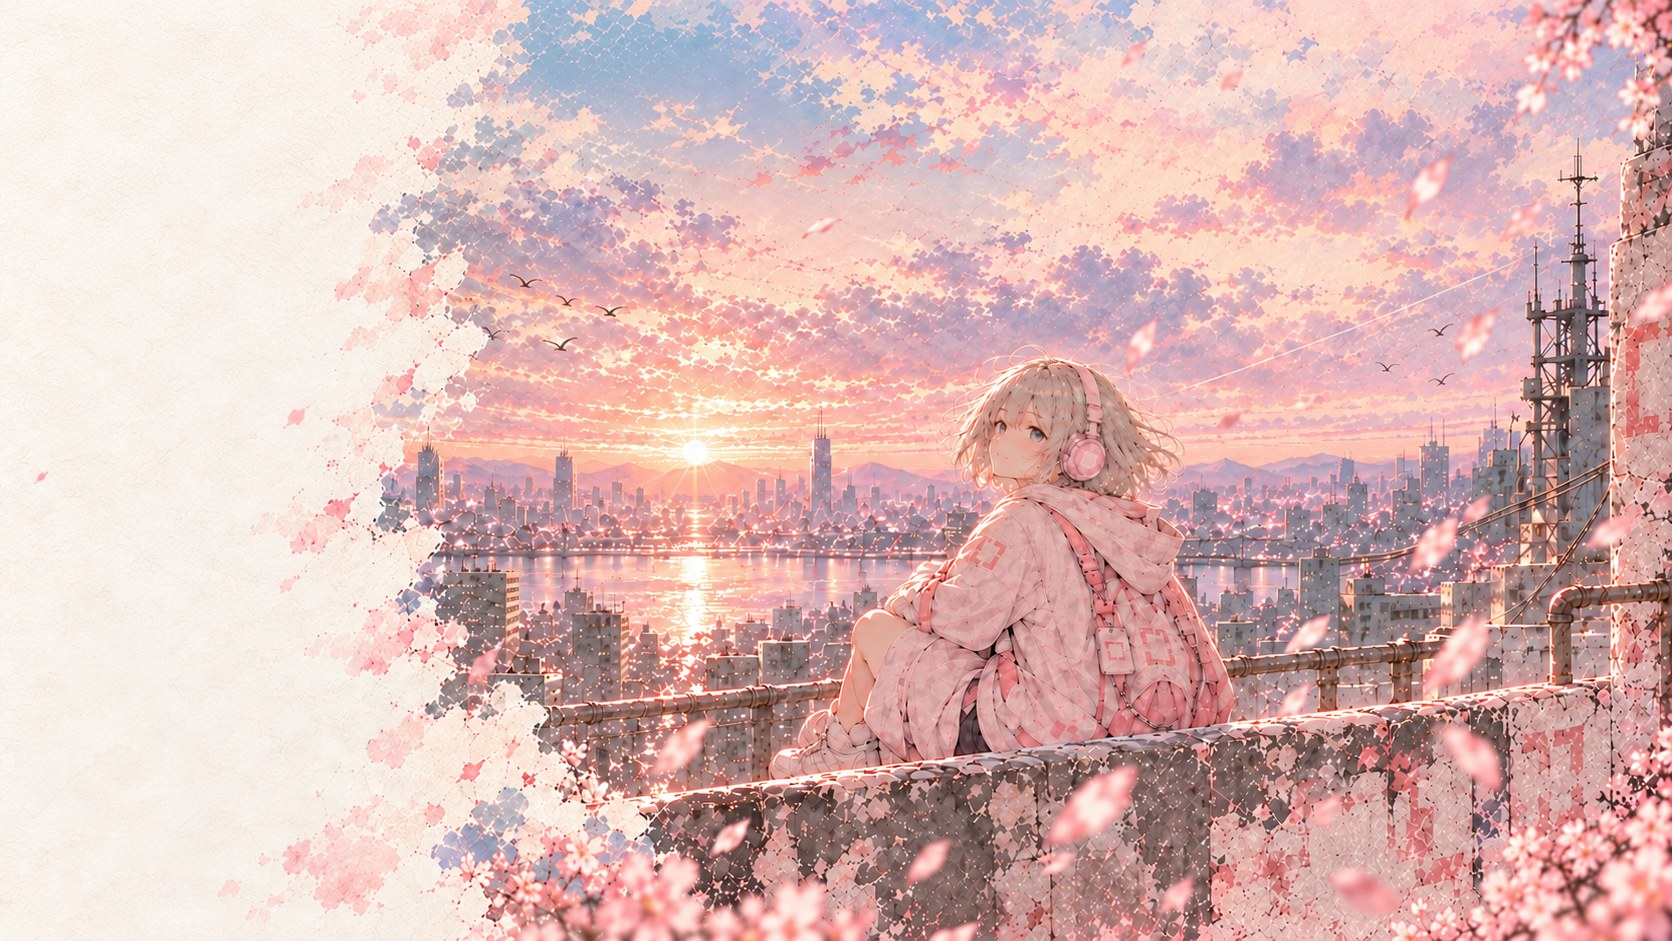
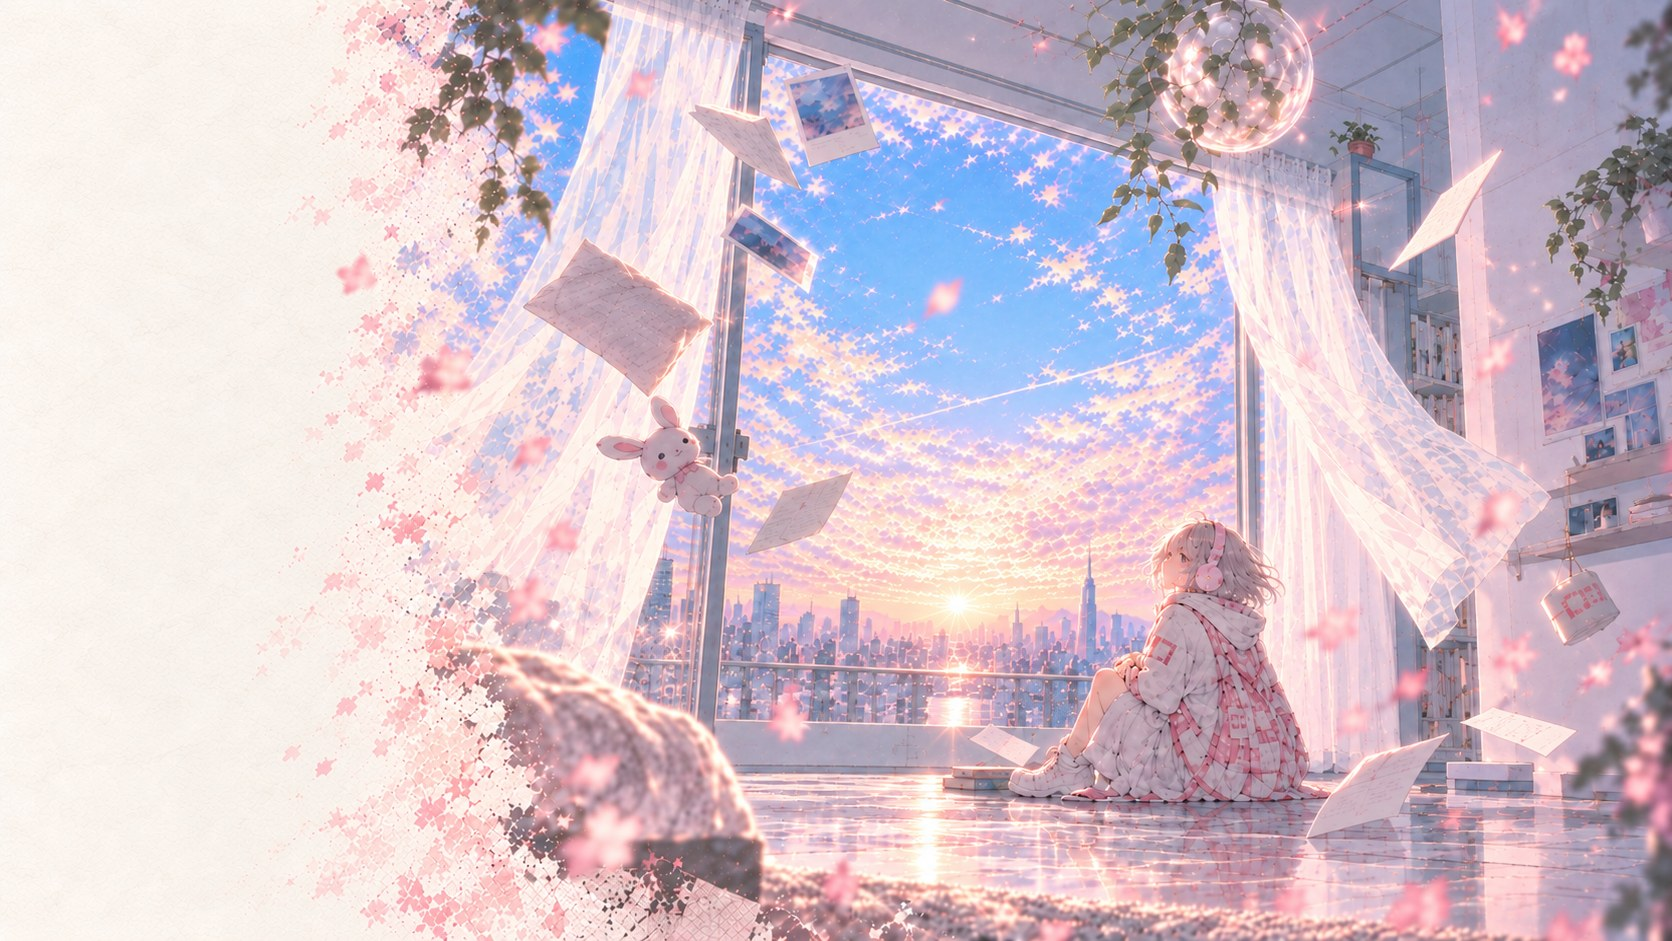
Update Weightless website artwork

diff --git a/index.html b/index.html
@@ -1,7 +1,7 @@
 <!doctype html>
 <html lang="en"><head><meta charset="utf-8">
 <meta name="viewport" content="width=device-width,initial-scale=1">
-<meta name="hikari-preview-revision" content="3b255ab43baa">
+<meta name="hikari-preview-revision" content="53b306296360">
 <title>Weightless · Wish | Hikari Project</title>
 <meta name="description" content="The body feels heavier every day. By night, the smallest things have become too much to carry. Every demand, every expectation, every hour spent holding ourselves together has settled somewhere inside us, until simply making it through the day feels unbearable.
 
@@ -12,10 +12,10 @@ Somewhere beyond the glass, the pressure is suddenly gone. We open our eyes and 
 <link href="https://fonts.googleapis.com/css2?family=Cormorant+Garamond:ital,wght@0,400;0,500;0,600;1,400&family=Jost:wght@400;500;600&display=swap" rel="stylesheet">
 <link rel="stylesheet" href="css/site.css?v=3b255ab43baa">
 <link rel="stylesheet" href="css/selected.css?v=2c8b5bc0af8d">
-</head><body class="scene-themed" style="--accent:#88515D;--hue:#DFACB8;--paper:#F7E9E5;--page:#F7E9E5;--ink:#60434A;--muted:#85666D;--line:#AD788855;--scene-ink:#60434A;--scene-muted:#85666D;--cloud-height:460px;--track-width:480px;--mobile-focus:46% 58%;--scene-focus:18% center">
+</head><body class="scene-themed" style="--accent:#88515D;--hue:#DFACB8;--paper:#F7E9E5;--page:#F7E9E5;--ink:#60434A;--muted:#85666D;--line:#AD788855;--scene-ink:#60434A;--scene-muted:#85666D;--cloud-height:460px;--track-width:480px;--mobile-focus:50% 78%;--scene-focus:18% center">
 <a class="skip" href="#release">Skip to release</a>
 <div class="scene">
-<picture><source media="(max-width: 1099px)" srcset="assets/mobile/hp-007.jpg?v=3b255ab43baa"><img class="background" src="assets/bg/hp-007.jpg?v=3b255ab43baa" alt="Artwork for Weightless by Wish" fetchpriority="high"></picture>
+<picture><source media="(max-width: 1099px)" srcset="assets/mobile/hp-007.jpg?v=53b306296360"><img class="background" src="assets/bg/hp-007.jpg?v=53b306296360" alt="Artwork for Weightless by Wish" fetchpriority="high"></picture>
 </div>
 <div class="cloud-layer mirrored" aria-hidden="true"><img src="assets/cloud/wish-weightless-texture-v1.png?v=3b255ab43baa" alt=""></div>
 

diff --git a/wish/weightless/index.html b/wish/weightless/index.html
@@ -1,7 +1,7 @@
 <!doctype html>
 <html lang="en"><head><meta charset="utf-8">
 <meta name="viewport" content="width=device-width,initial-scale=1">
-<meta name="hikari-preview-revision" content="3b255ab43baa">
+<meta name="hikari-preview-revision" content="53b306296360">
 <title>Weightless · Wish | Hikari Project</title>
 <meta name="description" content="The body feels heavier every day. By night, the smallest things have become too much to carry. Every demand, every expectation, every hour spent holding ourselves together has settled somewhere inside us, until simply making it through the day feels unbearable.
 
@@ -13,10 +13,10 @@ Somewhere beyond the glass, the pressure is suddenly gone. We open our eyes and 
 <link rel="stylesheet" href="../../css/site.css?v=3b255ab43baa">
 <link rel="stylesheet" href="../../css/selected.css?v=2c8b5bc0af8d">
 <link rel="canonical" href="https://hikari.studio/wish/weightless/">
-</head><body class="scene-themed" style="--accent:#88515D;--hue:#DFACB8;--paper:#F7E9E5;--page:#F7E9E5;--ink:#60434A;--muted:#85666D;--line:#AD788855;--scene-ink:#60434A;--scene-muted:#85666D;--cloud-height:460px;--track-width:480px;--mobile-focus:46% 58%;--scene-focus:18% center">
+</head><body class="scene-themed" style="--accent:#88515D;--hue:#DFACB8;--paper:#F7E9E5;--page:#F7E9E5;--ink:#60434A;--muted:#85666D;--line:#AD788855;--scene-ink:#60434A;--scene-muted:#85666D;--cloud-height:460px;--track-width:480px;--mobile-focus:50% 78%;--scene-focus:18% center">
 <a class="skip" href="#release">Skip to release</a>
 <div class="scene">
-<picture><source media="(max-width: 1099px)" srcset="../../assets/mobile/hp-007.jpg?v=3b255ab43baa"><img class="background" src="../../assets/bg/hp-007.jpg?v=3b255ab43baa" alt="Artwork for Weightless by Wish" fetchpriority="high"></picture>
+<picture><source media="(max-width: 1099px)" srcset="../../assets/mobile/hp-007.jpg?v=53b306296360"><img class="background" src="../../assets/bg/hp-007.jpg?v=53b306296360" alt="Artwork for Weightless by Wish" fetchpriority="high"></picture>
 </div>
 <div class="cloud-layer mirrored" aria-hidden="true"><img src="../../assets/cloud/wish-weightless-texture-v1.png?v=3b255ab43baa" alt=""></div>
 
